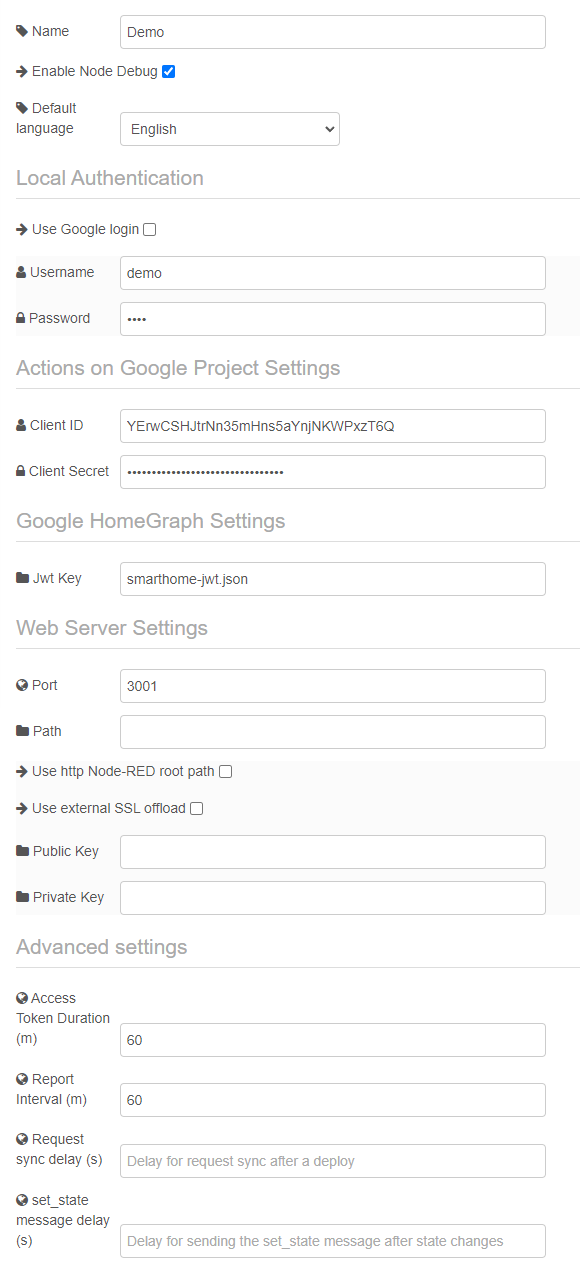
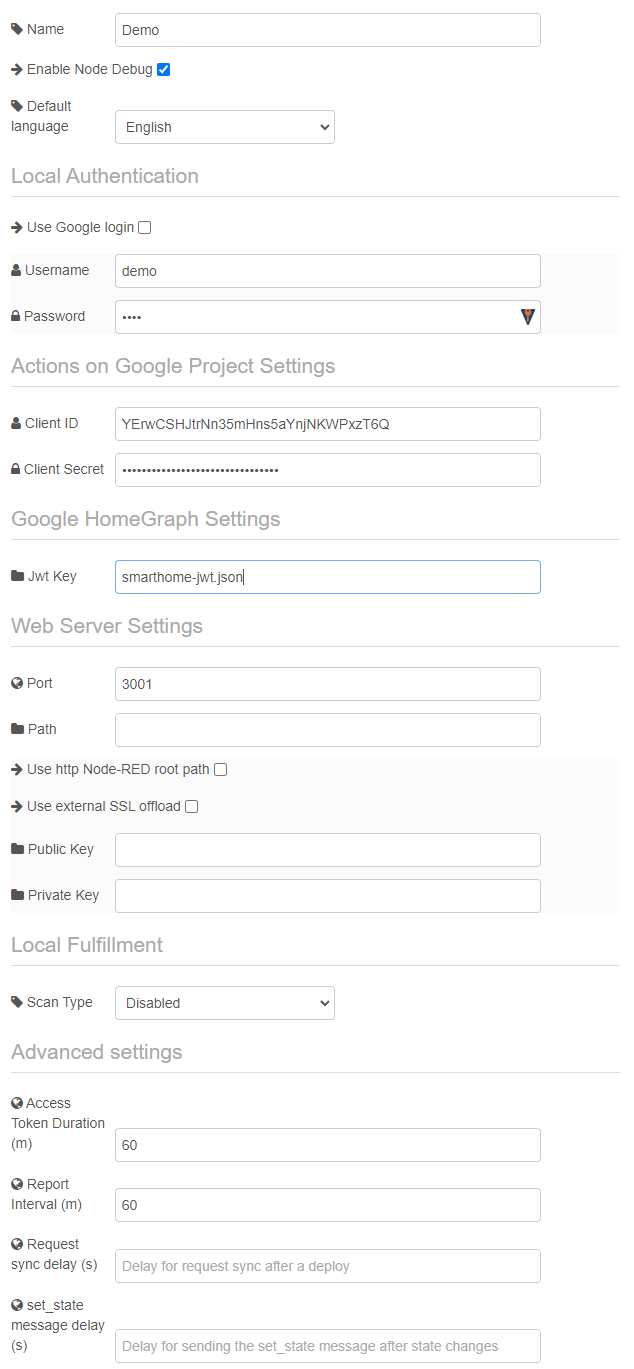
Update docs with changes related to UDP scanning

Changed region(s): [[0.0, 0.0, 0.869, 0.9819], [0.1862, 0.8285, 0.869, 1.0]]

diff --git a/docs/local_fulfillment.md b/docs/local_fulfillment.md
@@ -10,48 +10,74 @@ This tutorial assumes your service is already set up and working.
 
 ## Enable Local Fulfillment
 
+1. Open the configuration of your management node in Node-RED.
 
-1. Open the [Actions on Google Console](https://console.actions.google.com/) and select your project.\
+
+2. Scroll to section `Local Fulfillment`. Fill in as follows:
+    * Scan Type: Choose between MDNS and UDP scanning. Which one works better depends on your network configuration. You
+      might have to try both.
+    * Discovery port: Node-RED will listen on this port for discovery messages from your smart speaker. Enter any port
+      you want. You don't need to create an external port forwarding for this port on your home router.
+    * HTTP port: Node-RED will listen on this port for control messages from your smart speaker. Enter any port you
+      want. You don't need to create an external port forwarding for on your home router.
+
+    Remember the discovery port. You will need to enter it in the Actions on Google Console later.
+
+
+3. Save and deploy.
+
+
+4. Open the [Actions on Google Console](https://console.actions.google.com/) and select your project.\
    <kbd>![](images/setup_instructions/actionsconsole_check_project.png)</kbd>
 
 
-2. Click `Develop` on the top of the page, then click `Actions` located in the hamburger menu on the top left.\
+5. Click `Develop` on the top of the page, then click `Actions` located in the hamburger menu on the top left.\
    <kbd>![](images/setup_instructions/actionsconsole_tab_actions.png)</kbd>
 
 
-3. Click the button `Upload JavaScript files`.\
+6. Click the button `Upload JavaScript files`.\
    <kbd>![](images/local_fulfillment/localexecution_upload.png)</kbd>
 
 
-4. Upload [this JavaScript file](https://raw.githubusercontent.com/mikejac/node-red-contrib-google-smarthome/master/local-execution/app.js)
+7. Upload [this JavaScript file](https://raw.githubusercontent.com/mikejac/node-red-contrib-google-smarthome/master/local-execution/app.js)
    for both Node and Chrome.\
    <kbd>![](images/local_fulfillment/localexecution_upload_files.png)</kbd>
 
 
-5. Tick the `Support local query` checkbox.\
+8. Tick the `Support local query` checkbox.\
    <kbd>![](images/local_fulfillment/localexecution_localquery.png)</kbd>
 
 
-6. Add device scan configuration:
-    1. Click `+ New scan config`
-    2. Select `MDNS`
-    3. set mDNS service name to `_nodered-google._tcp.local`
+9. Click `+ New scan config` button if you don't have a scan configuration yet.
 
 
-7. The complete local fulfillment form for mDNS Scan Type should look like this.\
+10. Select MDNS or UDP identical to what you selected in the configuration of your management node.
+
+
+11. For MDNS, fill out the fields as follows.<br>
+    MDNS service name: Set to `_nodered-google._tcp.local`.
+    <br><br>
+    For UDP, fill out the fields as follows,<br>
+    Broadcast address: The IP range of your local network, e.g. `192.168.178.255`.
[1 lines of base64/hex data omitted]
+    Listen port: Set the same port you set as "Discovery Port" in the configuration of your management node.
+    Broadcast port: Set the same port you set as "Discovery Port" in the configuration of your management node.
+
+
+13. The complete local fulfillment form for mDNS Scan Type should look like this.\
    <kbd>![](images/local_fulfillment/localexecution_form_mDNS.png)</kbd>
 
    The complete local fulfillment form for UDP Scan Type should look like this.\
    <kbd>![](images/local_fulfillment/localexecution_form_UDP.png)</kbd>
 
 
-8. `Save` your changes.
+14. `Save` your changes.
 
 
-9. Restart your smart speaker and Node-RED.
+15. Restart your smart speaker and Node-RED.
 
 
-10. Now control your device. If local fulfillment is working, you will see a ring icon instead of the usual filled
+16. Now control your device. If local fulfillment is working, you will see a ring icon instead of the usual filled
     circle.\
     <kbd>![](images/local_fulfillment/localexecution_ring.png)</kbd>
     

diff --git a/README.md b/README.md
@@ -228,13 +228,19 @@ All other device nodes except the Google device are deprecated. Please use the G
   `Use external SSL offload`: If enabled, the smarthome service will use HTTP instead of HTTPS. Check if you want to
                               do SSL termination on a reverse proxy.
 
-  `Local fulfillment port`: A port number to use for local fulfillment. If empty, it will use the same port as Node-RED.
-                            If you use Node-RED's built-in HTTPS encryption or you have a httpAdminRoot set, you need to
-                            set a port. Don't create a forwarding rule for this port!
-
   `Public Key`: Full path to public key file, e.g. `fullchain.pem` from Let's Encrypt.
 
   `Private Key`: Full path to private key file, e.g. `privkey.pem` from Let's Encrypt.
+
+**Local Fulfillment**
+
+  `Scan Type`: The service discovery method to use. Must match what is set in the *Actions on Google* project.
+
+  `Discovery Port`: A port number to use for UDP or MDNS service discovery. 
+
+  `HTTP Port`: A port number to from your smart speaker to Node-RED. If empty, it will use the same port as Node-RED.
+               If you use Node-RED's built-in HTTPS encryption or you have a httpAdminRoot set, you need to
+               set a port. Don't create a forwarding rule for this port!
 
 **Advanced Settings**
 

diff --git a/docs/setup_instructions.md b/docs/setup_instructions.md
@@ -167,6 +167,8 @@ Now we will install the module in Node-RED and configure it.
       This tutorial assumes a simple path setup, so leave it empty.
     * Use external SSL offload: If enabled, the smarthome service will use HTTP instead of HTTPS. Check this box if you
       want to do SSL termination on a reverse proxy like Caddy or Traefik.
+    * Scan Type: Specifies how your smart speaker will search for Node-RED instances on your local network to use for
+      local fulfillment. You can setup local fulfillment later, so set it to "Disabled" for now.
     * Local fulfillment port: A port number to use for local fulfillment. Choose any port you want. This port is used
       for internal communication only and must not be forwarded externally.
     * Public and Private Key: Path to public and private key files of your SSL certificate (if you do not use external
